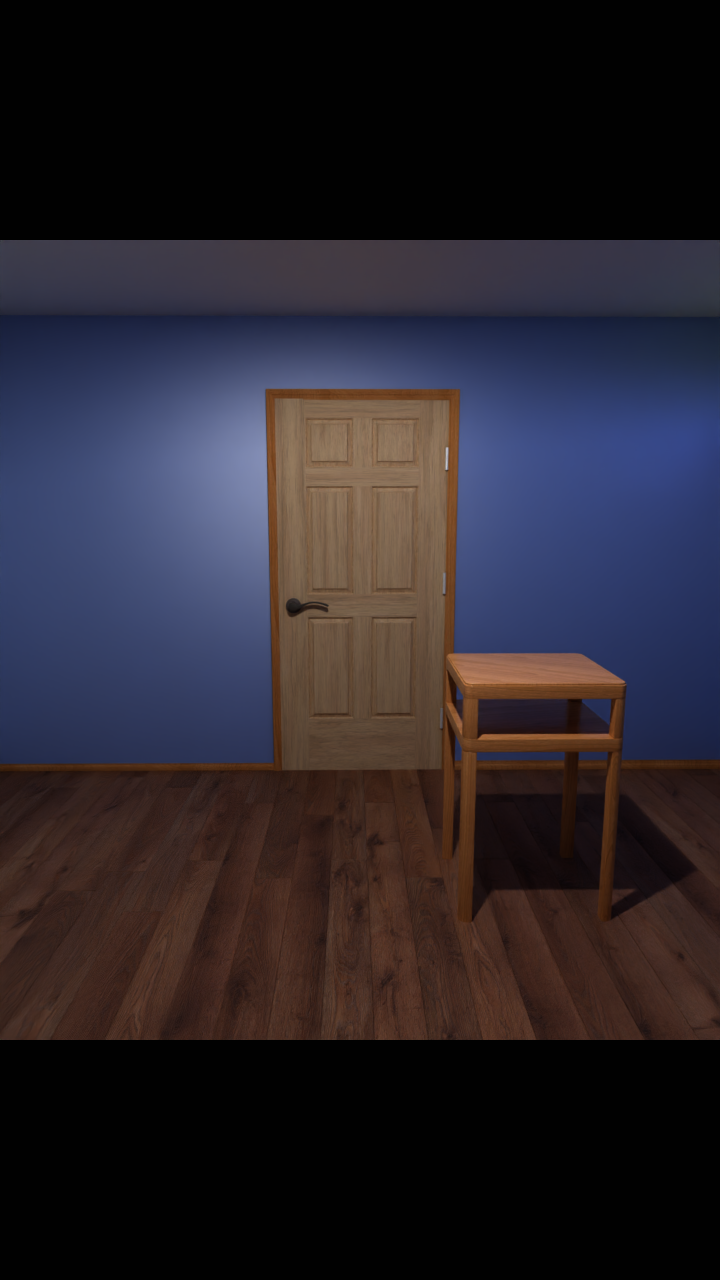
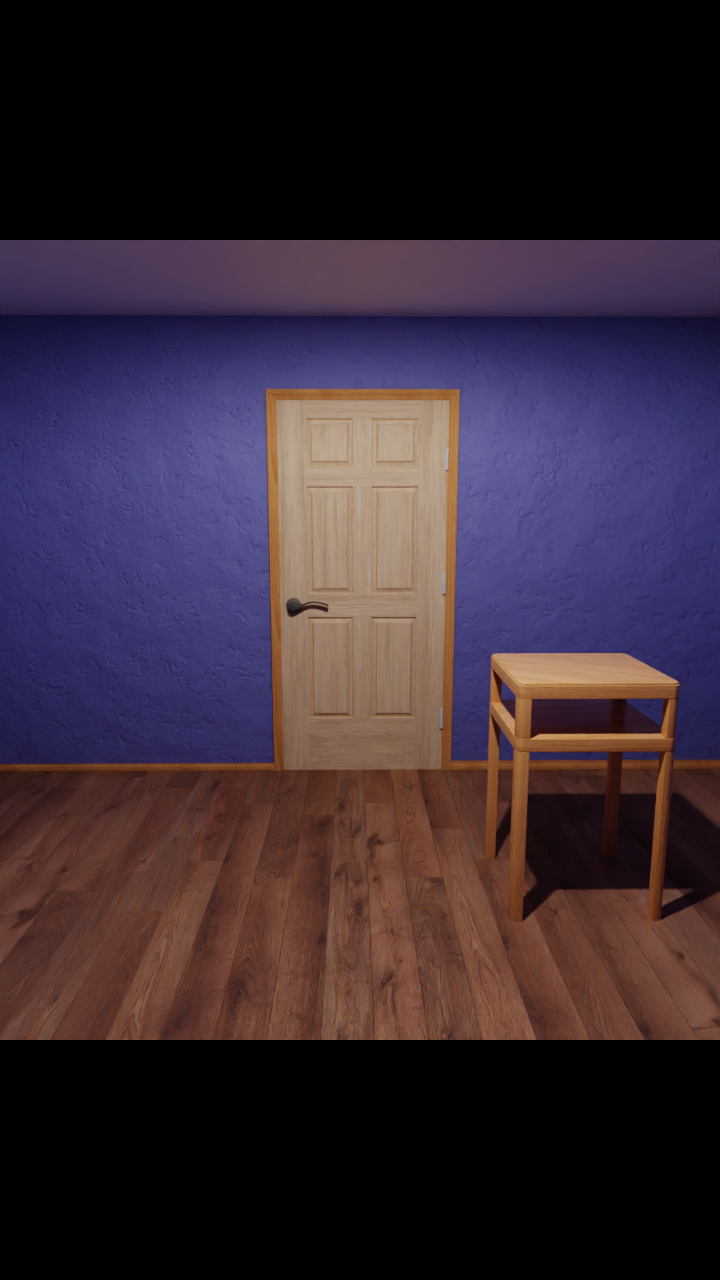
migrate to ts, better art

diff --git a/src/testmain.ts b/src/testmain.ts
@@ -1,0 +1,76 @@
+import 'phaser';
+
+var myViewport;
+var viewportText;
+var viewportPointer;
+var viewportPointerClick;
+ 
+class PlayGame extends Phaser.Scene {
+    image: Phaser.GameObjects.Image;
+    constructor() {
+        super("PlayGame");
+    }
+    preload(): void {
+        this.load.image('myViewport', 'assets/backgrounds/viewport.png');
+        viewportPointer = this.load.image('clckrLoc', 'assets/sprites/pointer.png');
+        viewportPointerClick = this.load.image('clckrClk', 'assets/sprites/pointerClicked.png');
+        myViewport = this.add.image(0, 0, 'myViewport').setOrigin(0, 0);
+
+        this.load.image('wall1', 'assets/backgrounds/invroom - room - empty.png');
+        this.load.image('wall2', 'assets/backgrounds/invroom - room - west.png');
+        this.load.image('wall3', 'assets/backgrounds/invroom - room - south.png');
+        this.load.image('wall4', 'assets/backgrounds/invroom - room - east.png');
+        this.load.image('wallUnlocked', 'assets/backgrounds/invroom - room - unlocked.png');
+        this.load.image('wallWinner', 'assets/backgrounds/invroom - room - winner.png');    
+    }
+    create(): void {
+        this.image = this.add.image(400, 300, 'wall1');
+    }
+    update(): void {
+        this.image.rotation += 0.01;   
+    }
+}
+
+/*
+let configObject: Phaser.Types.Core.GameConfig = {
+    scale: {
+        mode: Phaser.Scale.FIT,
+        autoCenter: Phaser.Scale.CENTER_BOTH,
+        parent: 'thegame',
+        width: 800,
+        height: 600
+    },
+    scene: PlayGame
+};
+*/
+
+let configObject: Phaser.Types.Core.GameConfig = {
+    scale: {
+        mode: Phaser.Scale.FIT,
+        autoCenter: Phaser.Scale.CENTER_BOTH,
+        parent: 'thegame',
+        width: 800,
+        height: 600
+    },
+    scene: PlayGame
+};
+
+
+let config = {
+    type: Phaser.AUTO,
+    backgroundColor: '#222222',
+    scale: {
+        mode: Phaser.Scale.FIT,
+        width: 720,
+        height: 1280,
+        parent: 'thegame',
+    },
+    dom: {
+        createContainer: true
+    },
+    disableContextMenu: true, // ready for right-click if needed
+    autoCenter: Phaser.Scale.CENTER_BOTH,
+    scene: PlayGame
+};
+ 
+new Phaser.Game(configObject);

diff --git a/webpack.development.js b/webpack.development.js
@@ -1,10 +1,13 @@
 const path = require('path');
 
 // https://www.emanueleferonato.com/2021/08/03/working-with-phaser-typescript-and-webpack-step-1/
+// https://www.emanueleferonato.com/2021/08/11/working-with-phaser-typescript-and-webpack-step-3-typescript/
 module.exports = {
     entry: {
+// this is our entry point, the main JavaScript file
+//app: './src/main.js',
         // this is our entry point, the main JavaScript file
-        app: './src/main.js',
+        app: './src/main.ts',        
     },
     output: {
  
@@ -24,5 +27,20 @@ module.exports = {
     // development server root is "src" folder
     devServer: {
         static: './src'
+    },
+
+    // list of extensions to resolve, in resolve order
+    resolve: {
+        extensions: [ '.ts', '.tsx', '.js' ]
+    },
+ 
+    // loader to handle TypeScript file type
+    module: {
+        rules: [{
+            test: /\.tsx?$/,
+            use: 'ts-loader',
+            exclude: /node_modules/
+        }]
     }
+
 };

diff --git a/webpack.distribution.js b/webpack.distribution.js
@@ -9,8 +9,10 @@ const { CleanWebpackPlugin } = require('clean-webpack-plugin');
 module.exports = {
     entry: {
  
-        // this is our entry point, the main JavaScript file
-        app: './src/main.js',
+// this is our entry point, the main JavaScript file
+//  app: './src/main.js',
+        // this is our entry point, the main Typescript file
+        app: './src/main.ts',        
     },
     output: {
  
@@ -56,5 +58,20 @@ module.exports = {
                 }                                 
             ]
         })
-    ]
+    ],
+
+    // list of extensions to resolve, in resolve order
+    resolve: {
+        extensions: [ '.ts', '.tsx', '.js' ]
+    },
+ 
+    // loader to handle TypeScript file type
+    module: {
+        rules: [{
+            test: /\.tsx?$/,
+            use: 'ts-loader',
+            exclude: /node_modules/
+        }]
+    }
+
 };

diff --git a/src/main.ts b/src/main.ts
@@ -1,5 +1,5 @@
 import 'phaser';
-
+// CHECKING IN THIS .JS CALLED .TS TO PROVIDE EASY COMPARE LATER!
 import Slots from "./objects/slots.js"
 
 var currentWall = -1;
@@ -14,6 +14,10 @@ const i = new Array();
 var viewWall = 2;
 var previousWall = -1;
 
+var wall1;
+var wall2;
+var wall3;
+var wall4;
 var invBar, leftButton, rightButton, backButton, plusButton, failed;
 var takeItemMask;
 var viewTableMask;

diff --git a/src/objects/slots.js b/src/objects/slots.js
@@ -80,6 +80,10 @@ export default class Slots {
         this.selectedSecondIcon.setX(1000);
     }
 
+    clearSelect() {
+        this.selectedIcon.setX(1000);        
+    }
+
     clearSecondSelect() {
         this.selectedSecondIcon.setX(1000);        
     }
